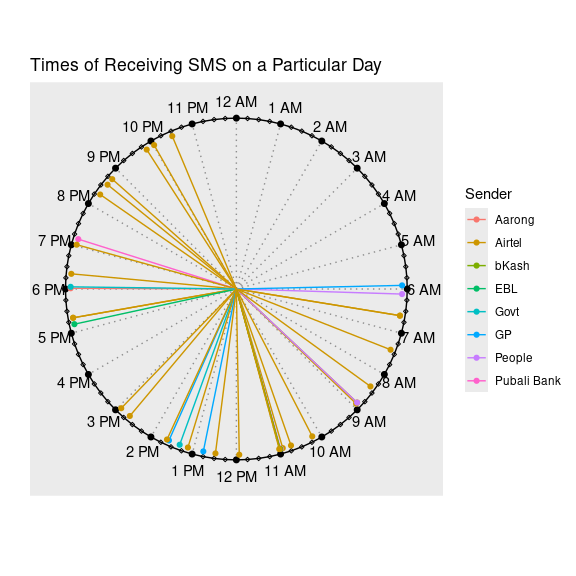
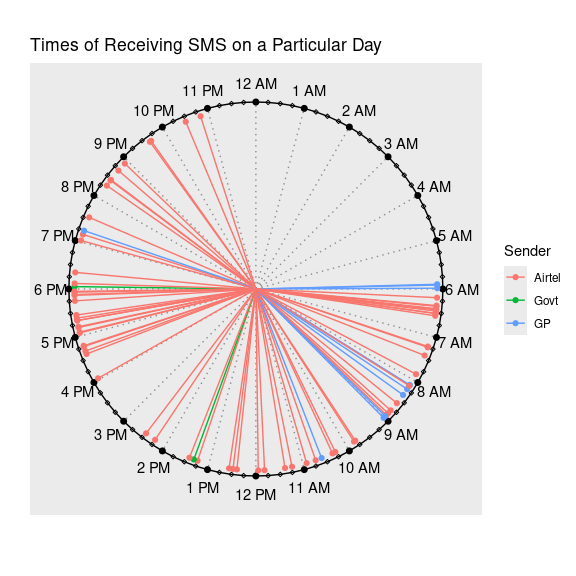
fix reamde

Changed region(s): [[0.0312, 0.0625, 0.9688, 0.875], [0.8125, 0.3125, 0.875, 0.3438], [0.8125, 0.6562, 0.8438, 0.6875]]

diff --git a/README.md b/README.md
@@ -4,11 +4,13 @@
 # clockplot <a href=""><img src="man/figures/logo.png" align="right" height="100" /></a>
 
 <!-- badges: start -->
+
 <!-- badges: end -->
 
-The primary goal of clockplot is to plot event time on a clock chart.
-Additionally it helps you make a day chart, week chart, or month chart,
-or plan events in those periods.
+The *clockplot* is designed to visualize event times on a circular clock
+chart, helping you create day, week, or month charts for analyzing
+patterns or planning events. It’s perfect for time-based data, from
+personal schedules to periodic trend analysis.
 
 ## Installation
 
@@ -35,10 +37,6 @@ see the reproducible codes.
 We have a small data of times of messages received throughout a
 particular day, along with sender of the messages and their types. Let
 us the pattern of messages by senders.
-
-    #> Warning in clock_chart_qlt(smsclock, time = time, crit = sender): No. of
-    #> categories is more than 5 and may not be distinguished well. Try clock_chart()
-    #> function instead?
 
 <img src="man/figures/README-exqlt-1.png" alt="SMS times" width="100%" style="display: block; margin: auto;" />
 

diff --git a/NEWS.md b/NEWS.md
@@ -1,5 +1,7 @@
 # clockplot (development version)
 
+* Add a few tests to `clock_chart_qnt.R`
+* Removed bug from `week_chart()` in `stopifnot` part
 * Added US Accidents data and example. 
 * Added error for non-numeric input to `week_chart()`.
 

diff --git a/Notes.md b/Notes.md
@@ -1,0 +1,5 @@
+# Works to be done
+
+## Important
+
+- In conv_data.R, change time variable name
